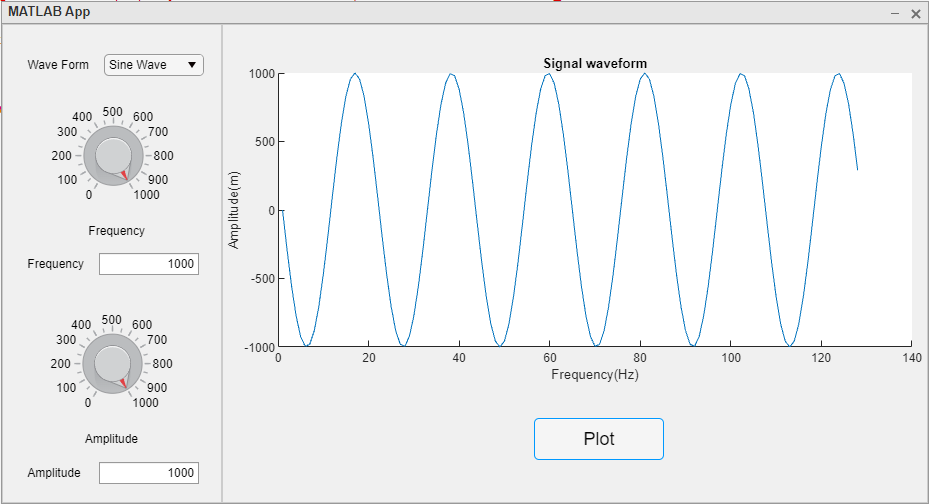
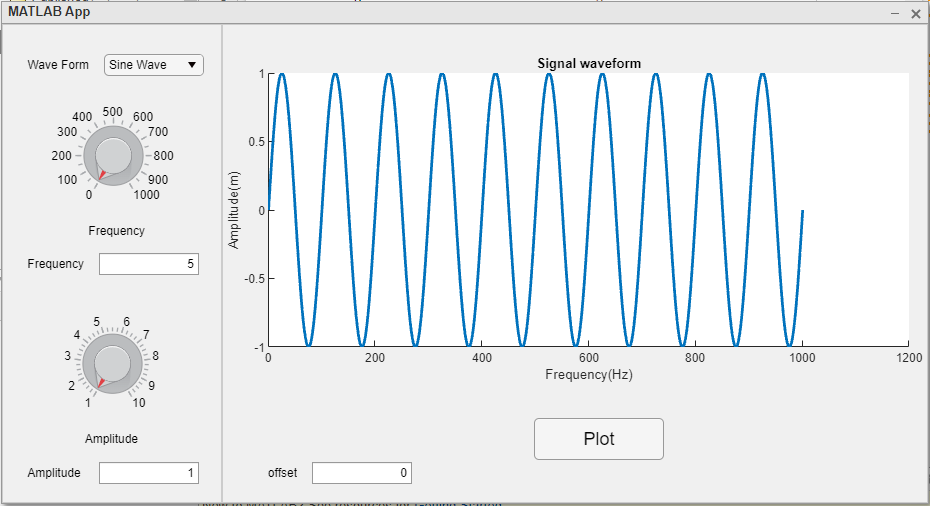
Edit wave form and add new image

diff --git a/waveform_dis.m b/waveform_dis.m
@@ -16,6 +16,8 @@ classdef waveform_dis_exported < matlab.apps.AppBase
         WaveFormDropDown         matlab.ui.control.DropDown
         WaveFormDropDownLabel    matlab.ui.control.Label
         RightPanel               matlab.ui.container.Panel
+        offsetEditField          matlab.ui.control.NumericEditField
+        offsetEditFieldLabel     matlab.ui.control.Label
         PlotButton               matlab.ui.control.Button
         UIAxes                   matlab.ui.control.UIAxes
     end
@@ -30,27 +32,29 @@ classdef waveform_dis_exported < matlab.apps.AppBase
 
         % Button pushed function: PlotButton
         function PlotButtonPushed(app, event)
-           fs = 512;
-           dt = 1/fs;
-           StopTime = 0.25;
-           t = (0:dt:StopTime-dt)';
+           StopTime = 1;
 
            A = app.AmplitudeEditField.Value;
            F = app.FrequencyEditField.Value;
+           offset = app.offsetEditField.Value;
 
+           t = -1*StopTime:1/(100*F):StopTime;
+           period = 1/F
+           omega = 2*pi/period;
+        
            switch app.WaveFormDropDown.Value
                 case 'Sine Wave'
-                    data = A*sin(2*pi*F*t);
-                    plot(app.UIAxes,data)
+                    data = A*sin(omega*t);
+                    plot(app.UIAxes,data+offset,'LineWidth',2.0)
                 case 'Square Wave'
-                    data = A*square(2*pi*F*t);
-                    plot(app.UIAxes,data)
+                    data = A*square(omega*t);
+                    plot(app.UIAxes,data+offset,'LineWidth',2.0)
                 case 'Triangle Wave'
-                    data = A*sawtooth(2*pi*F*t,1/2);
-                    plot(app.UIAxes,data)
+                    data = A*sawtooth(omega*t,1/2);
+                    plot(app.UIAxes,data+offset,'LineWidth',2.0)
                 case 'Sawtooth Wave'
-                    data = A*sawtooth(2*pi*F*t);
-                    plot(app.UIAxes,data)
+                    data = A*sawtooth(omega*t);
+                    plot(app.UIAxes,data+offset,'LineWidth',2.0)
             end
         end
 
@@ -61,8 +65,7 @@ classdef waveform_dis_exported < matlab.apps.AppBase
 
         % Value changed function: FrequencyEditField
         function FrequencyEditFieldValueChanged(app, event)
-            value = app.FrequencyEditField.Value;
-            
+            value = app.FrequencyEditField.Value;            
         end
 
         % Value changed function: AmplitudeEditField
@@ -90,6 +93,11 @@ classdef waveform_dis_exported < matlab.apps.AppBase
         % Value changed function: AmplitudeKnob
         function AmplitudeKnobValueChanged(app, event)
             value = app.AmplitudeKnob.Value;
+        end
+
+        % Value changed function: offsetEditField
+        function offsetEditFieldValueChanged(app, event)
+            value = app.offsetEditField.Value;
         end
 
         % Changes arrangement of the app based on UIFigure width
@@ -173,11 +181,13 @@ classdef waveform_dis_exported < matlab.apps.AppBase
 
             % Create AmplitudeKnob
             app.AmplitudeKnob = uiknob(app.LeftPanel, 'continuous');
-            app.AmplitudeKnob.Limits = [0 1000];
-            app.AmplitudeKnob.MajorTicks = [0 100 200 300 400 500 600 700 800 900 1000];
+            app.AmplitudeKnob.Limits = [1 10];
+            app.AmplitudeKnob.MajorTicks = [1 2 3 4 5 6 7 8 9 10];
+            app.AmplitudeKnob.MajorTickLabels = {'1', '2', '3', '4', '5', '6', '7', '8', '9', '10'};
             app.AmplitudeKnob.ValueChangedFcn = createCallbackFcn(app, @AmplitudeKnobValueChanged, true);
             app.AmplitudeKnob.ValueChangingFcn = createCallbackFcn(app, @AmplitudeKnobValueChanging, true);
             app.AmplitudeKnob.Position = [80 109 60 60];
+            app.AmplitudeKnob.Value = 1;
 
             % Create FrequencyEditFieldLabel
             app.FrequencyEditFieldLabel = uilabel(app.LeftPanel);
@@ -219,6 +229,17 @@ classdef waveform_dis_exported < matlab.apps.AppBase
             app.PlotButton.FontSize = 18;
             app.PlotButton.Position = [312 43 130 42];
             app.PlotButton.Text = 'Plot';
+
+            % Create offsetEditFieldLabel
+            app.offsetEditFieldLabel = uilabel(app.RightPanel);
+            app.offsetEditFieldLabel.HorizontalAlignment = 'right';
+            app.offsetEditFieldLabel.Position = [41 19 34 22];
+            app.offsetEditFieldLabel.Text = 'offset';
+
+            % Create offsetEditField
+            app.offsetEditField = uieditfield(app.RightPanel, 'numeric');
+            app.offsetEditField.ValueChangedFcn = createCallbackFcn(app, @offsetEditFieldValueChanged, true);
+            app.offsetEditField.Position = [90 19 100 22];
 
             % Show the figure after all components are created
             app.UIFigure.Visible = 'on';
